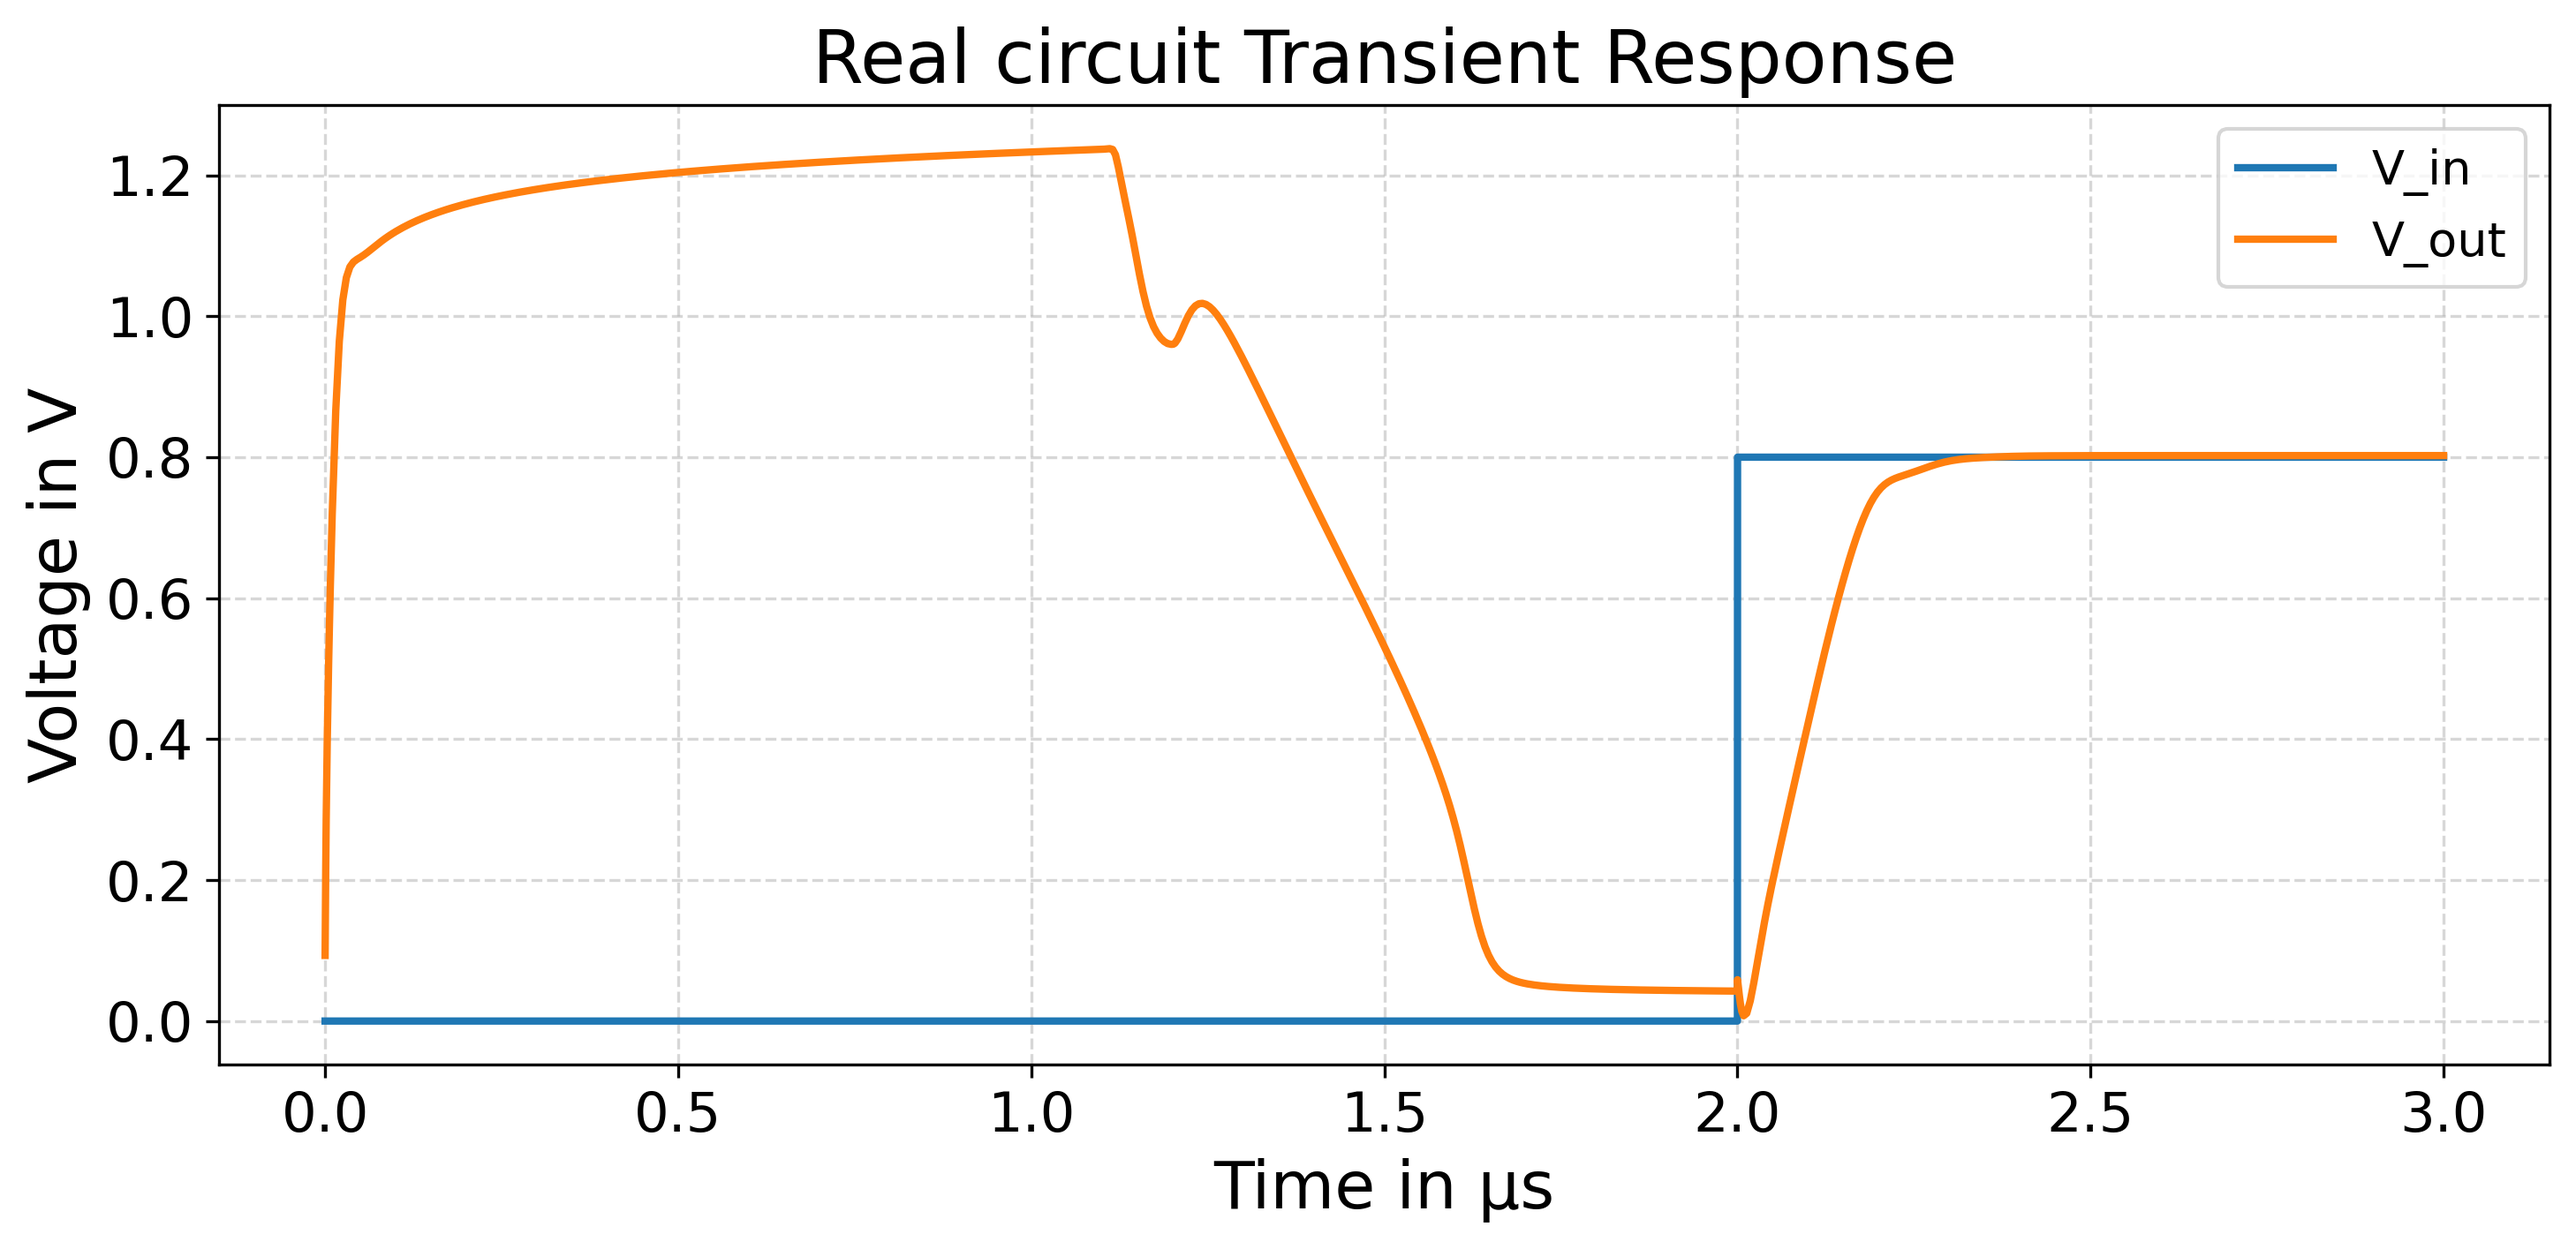
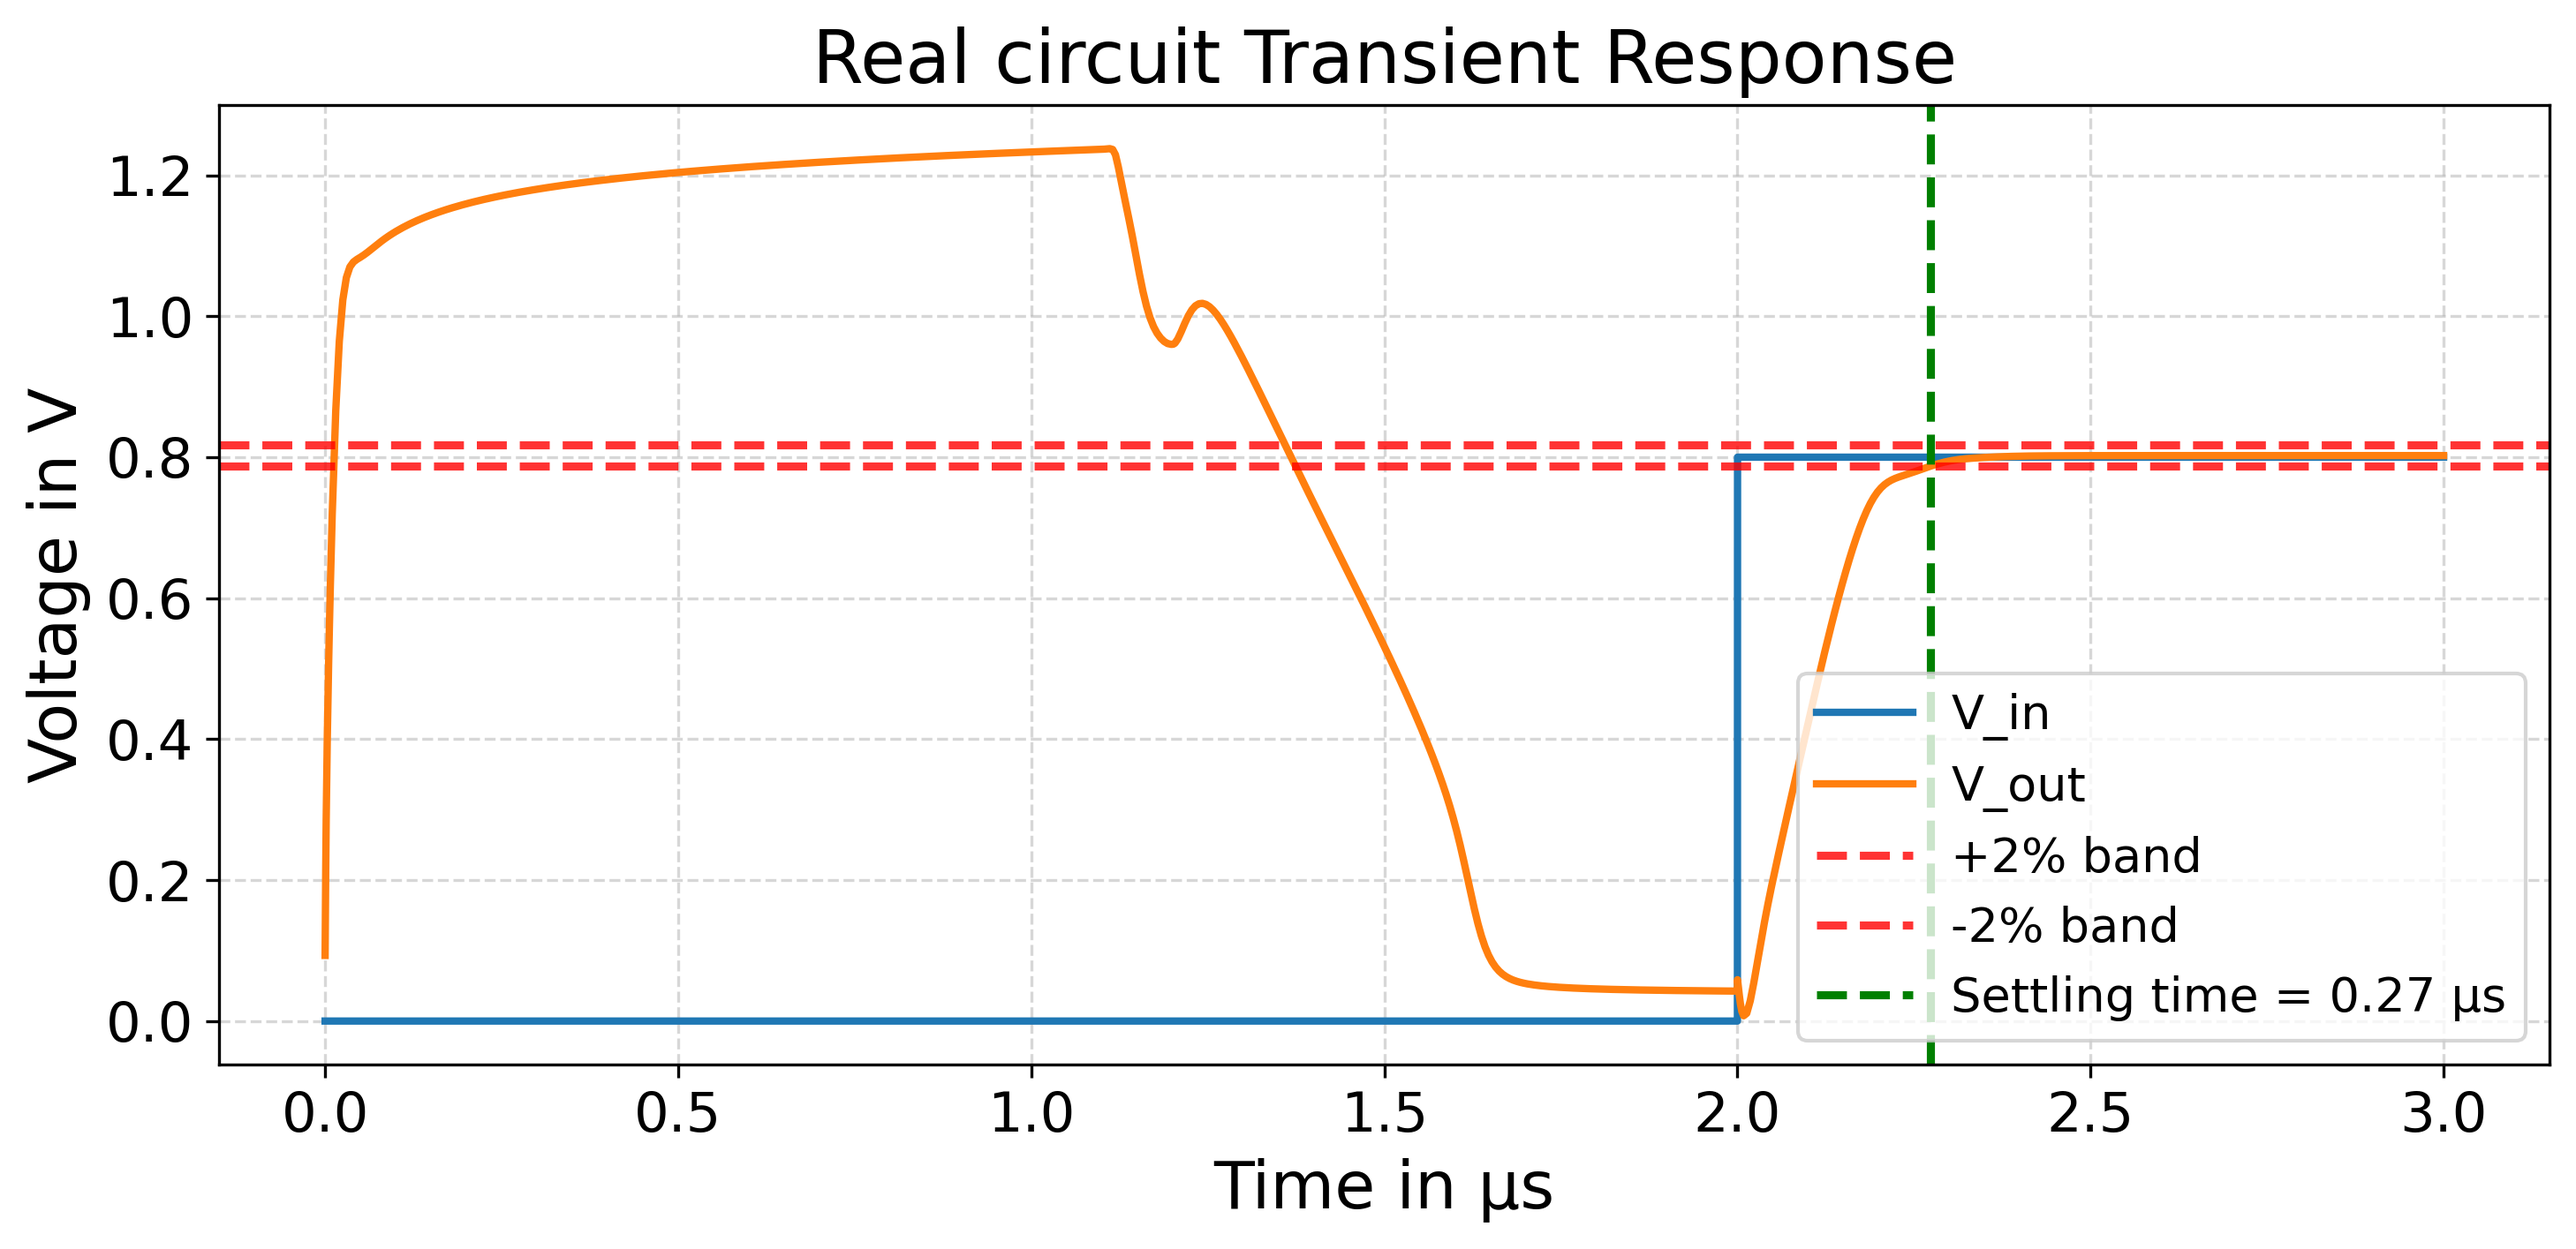
minor changes to 004 readme

diff --git a/004_Real_Circuits/README.md b/004_Real_Circuits/README.md
@@ -247,6 +247,8 @@ If the input is added after the 1.3 microseconds the OTA responds as expected as
 
 The OTA is on the slower side, as the slope in the second picture shows. After v_in is set to 0.8 V the output voltage rises until it hits 0.8 V. There are no oscillations happening.
 
+Using a settling band of 2% the settling time is 0.27 us.
+
 ### Temperature analysis
 
 ![Temperature transient from -40 to 140 degree Celsius](pictures/temperature_analysis/temperature_transient.png)
